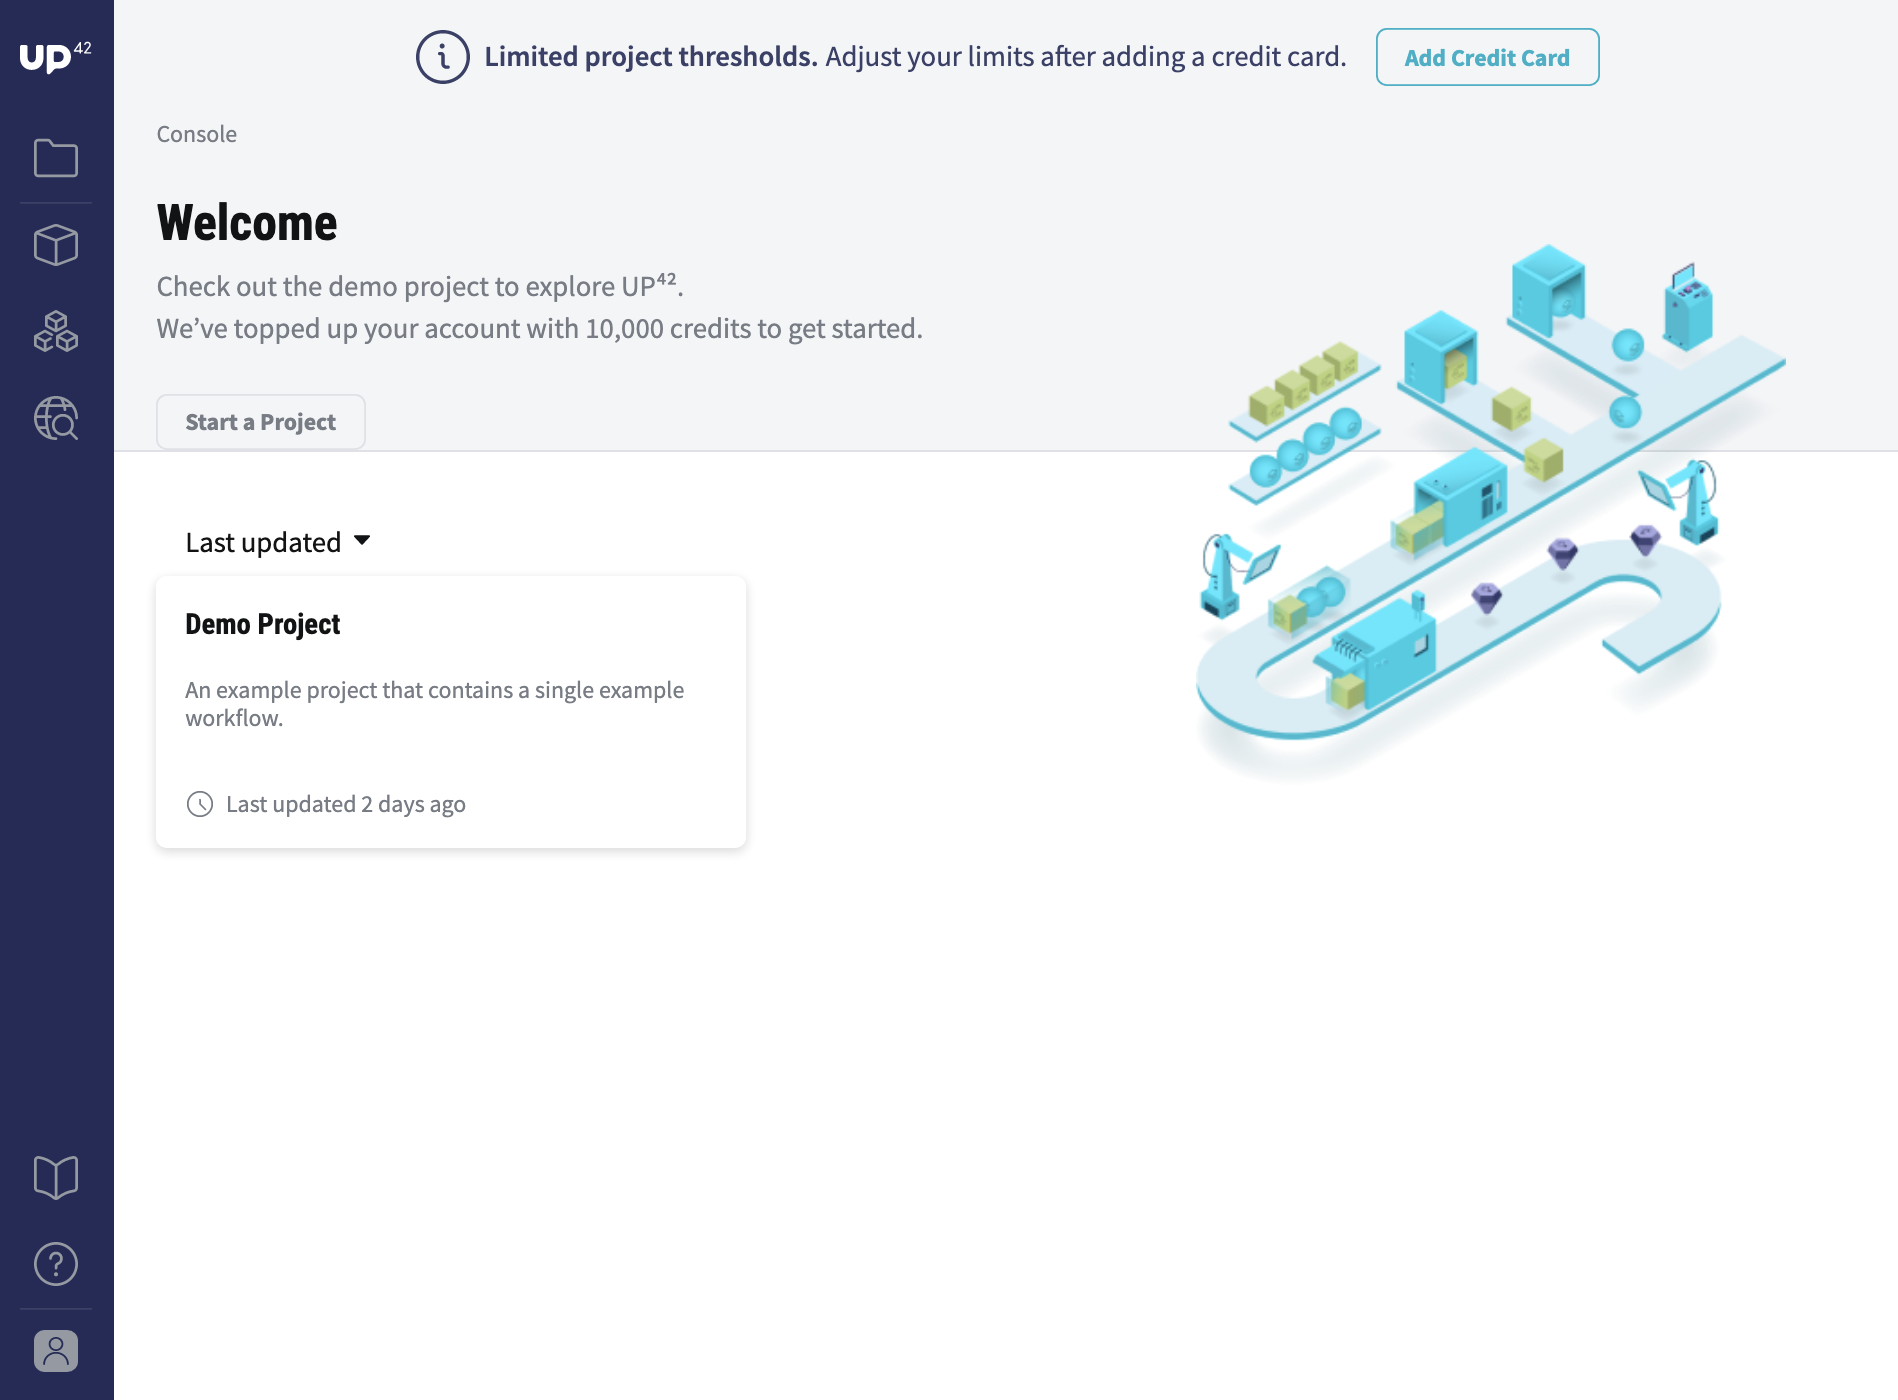
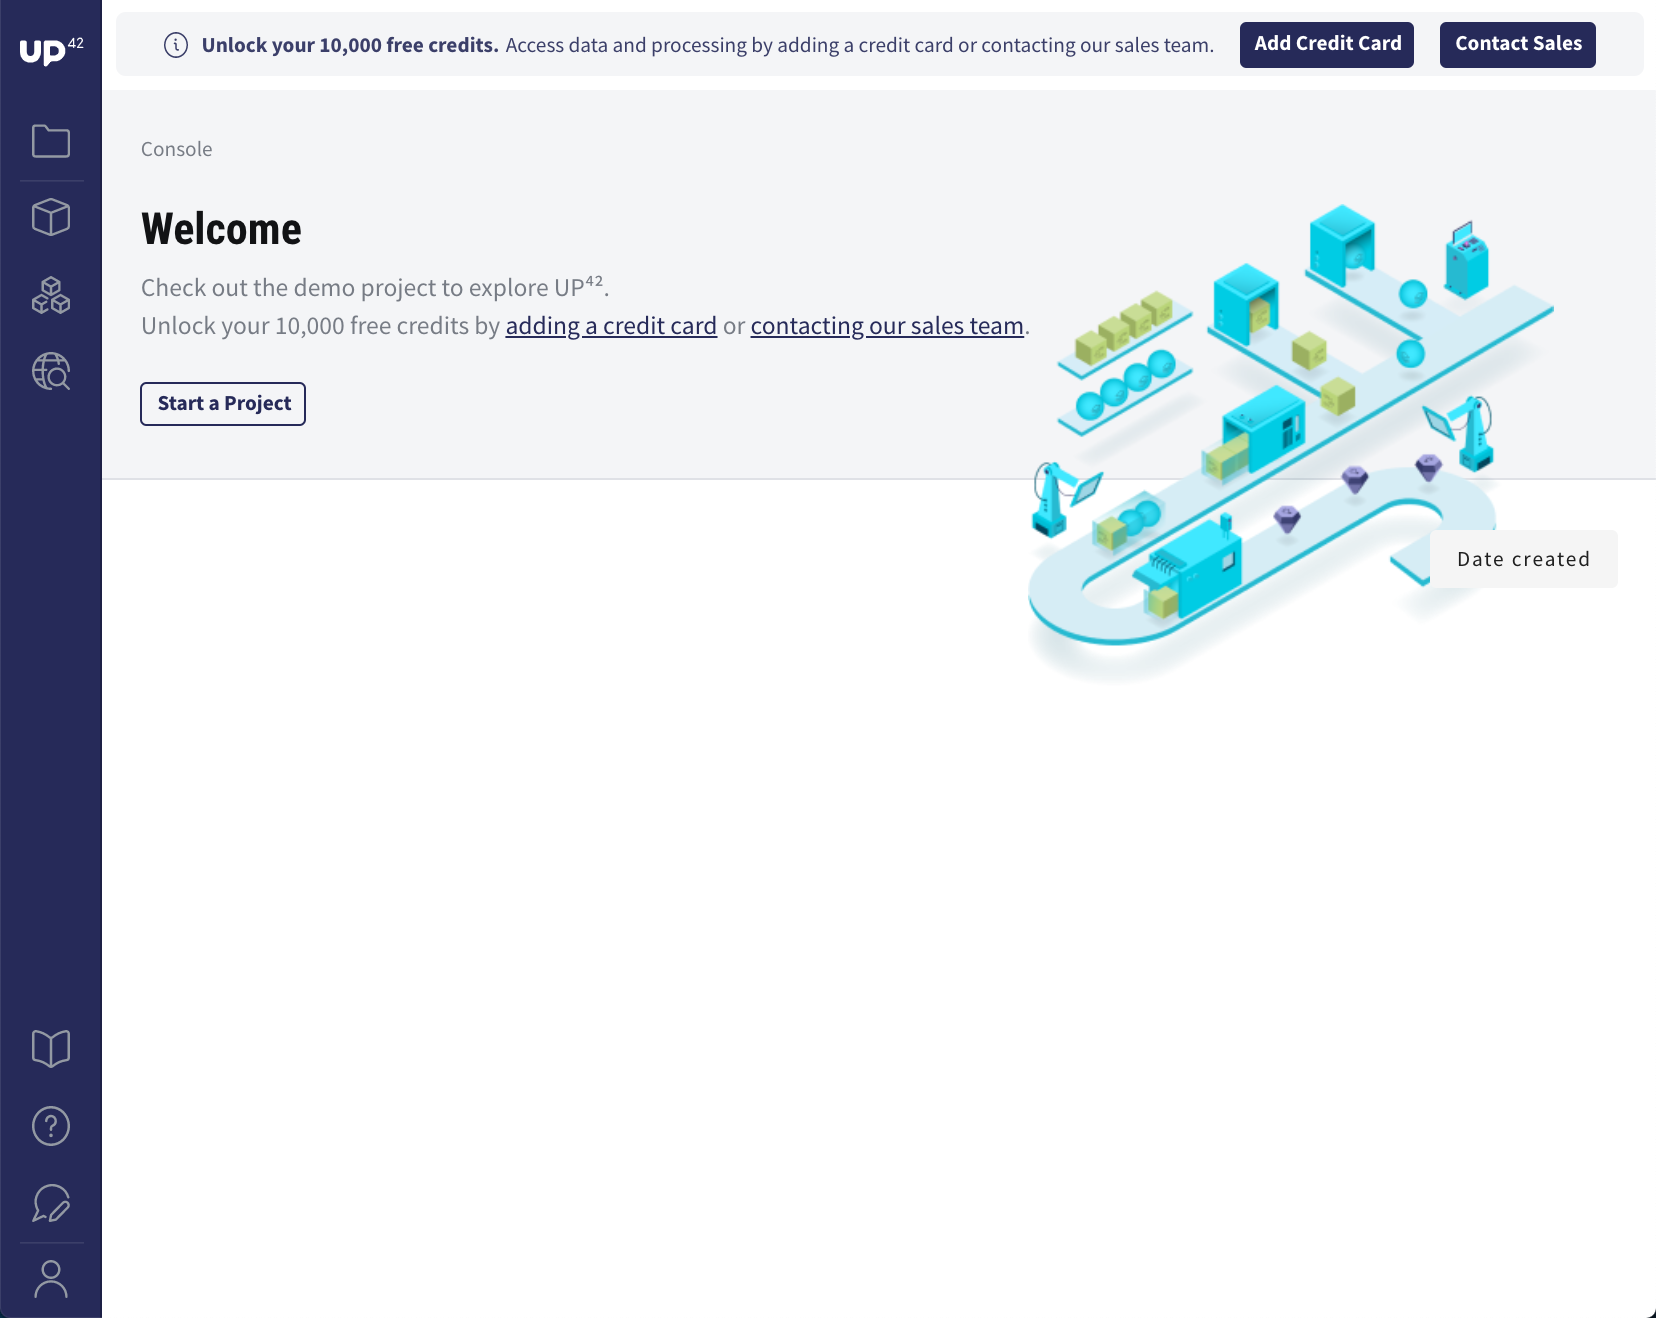
Inserted generic image of UP42 platform

diff --git a/source/getting-started/index.rst b/source/getting-started/index.rst
@@ -7,22 +7,17 @@
 Getting started with UP42
 =========================
 
-This is the section for beginners to UP42. It provides you with an
-introductory overview of the many things that you can do on our
-platform.
+UP42 aims to democratize the access to free or commercial satellite data and algorithms that extract valuable information for numerous use cases: flood mapping, vegetation health monitoring, object detection, land cover change and many more. UP42 also provides tools that facilitate integrating a wide variety of Earth observation data into your workflows.
 
-.. figure:: _assets/up42-console_.png
+This introductory section provides an overview of how the UP42 platform works and what functionalities can be used to create a project. This will help you become familiar with UP42 and explore the diverse geospatial solutions that we have to offer.
+
+.. figure:: _assets/up42_first_page_scheme.png
    :align: center
-   :alt: The UP42 Console
+   :alt: The UP42 Platform
 
-   The UP42 Console
+   The UP42 Platform
 
-We start with :ref:`exploring <first-job-run>` the very first
-:term:`job` that is automatically run once you confirm your UP42
-account. Proceed by :ref:`creating <build-first-workflow>` your own
-first workflow. Then take a sneek peek into more advanced topics like
-:ref:`running a job via the API <first-api-request>` and/or experiment with your first
-:ref:`custom block <first-custom-block>`.
+You start by signing up and creating an UP42 account. This step will allow you to open the demo project, which contains the demo workflow. The demo workflow is a combination of data and processing blocks. These blocks are UP42 units that point to a specific geospatial data acquisition and processing algorithm. Finally, the workflow is being run as a job to generate results.
 
 .. toctree::
    :maxdepth: 1

diff --git a/source/getting-started/first-job-run.rst b/source/getting-started/first-job-run.rst
@@ -9,7 +9,7 @@ Run your first job
 ====================
 
 This section will guide you through running your first job on the UP42
-platform using a simple demo project that calculates an :term:`NDVI` Vegetation Index.
+platform using a simple demo project that calculates an :term:`NDVI`.
 
 The UP42 console
 -----------------
@@ -74,7 +74,7 @@ In the map below you can see where this image is located.
    account then these limitations **do not** apply. You will be able
    to set the AOI up to 1000 km :superscript:`2`.
 
-          
+
 Run your first job
 -------------------
 
